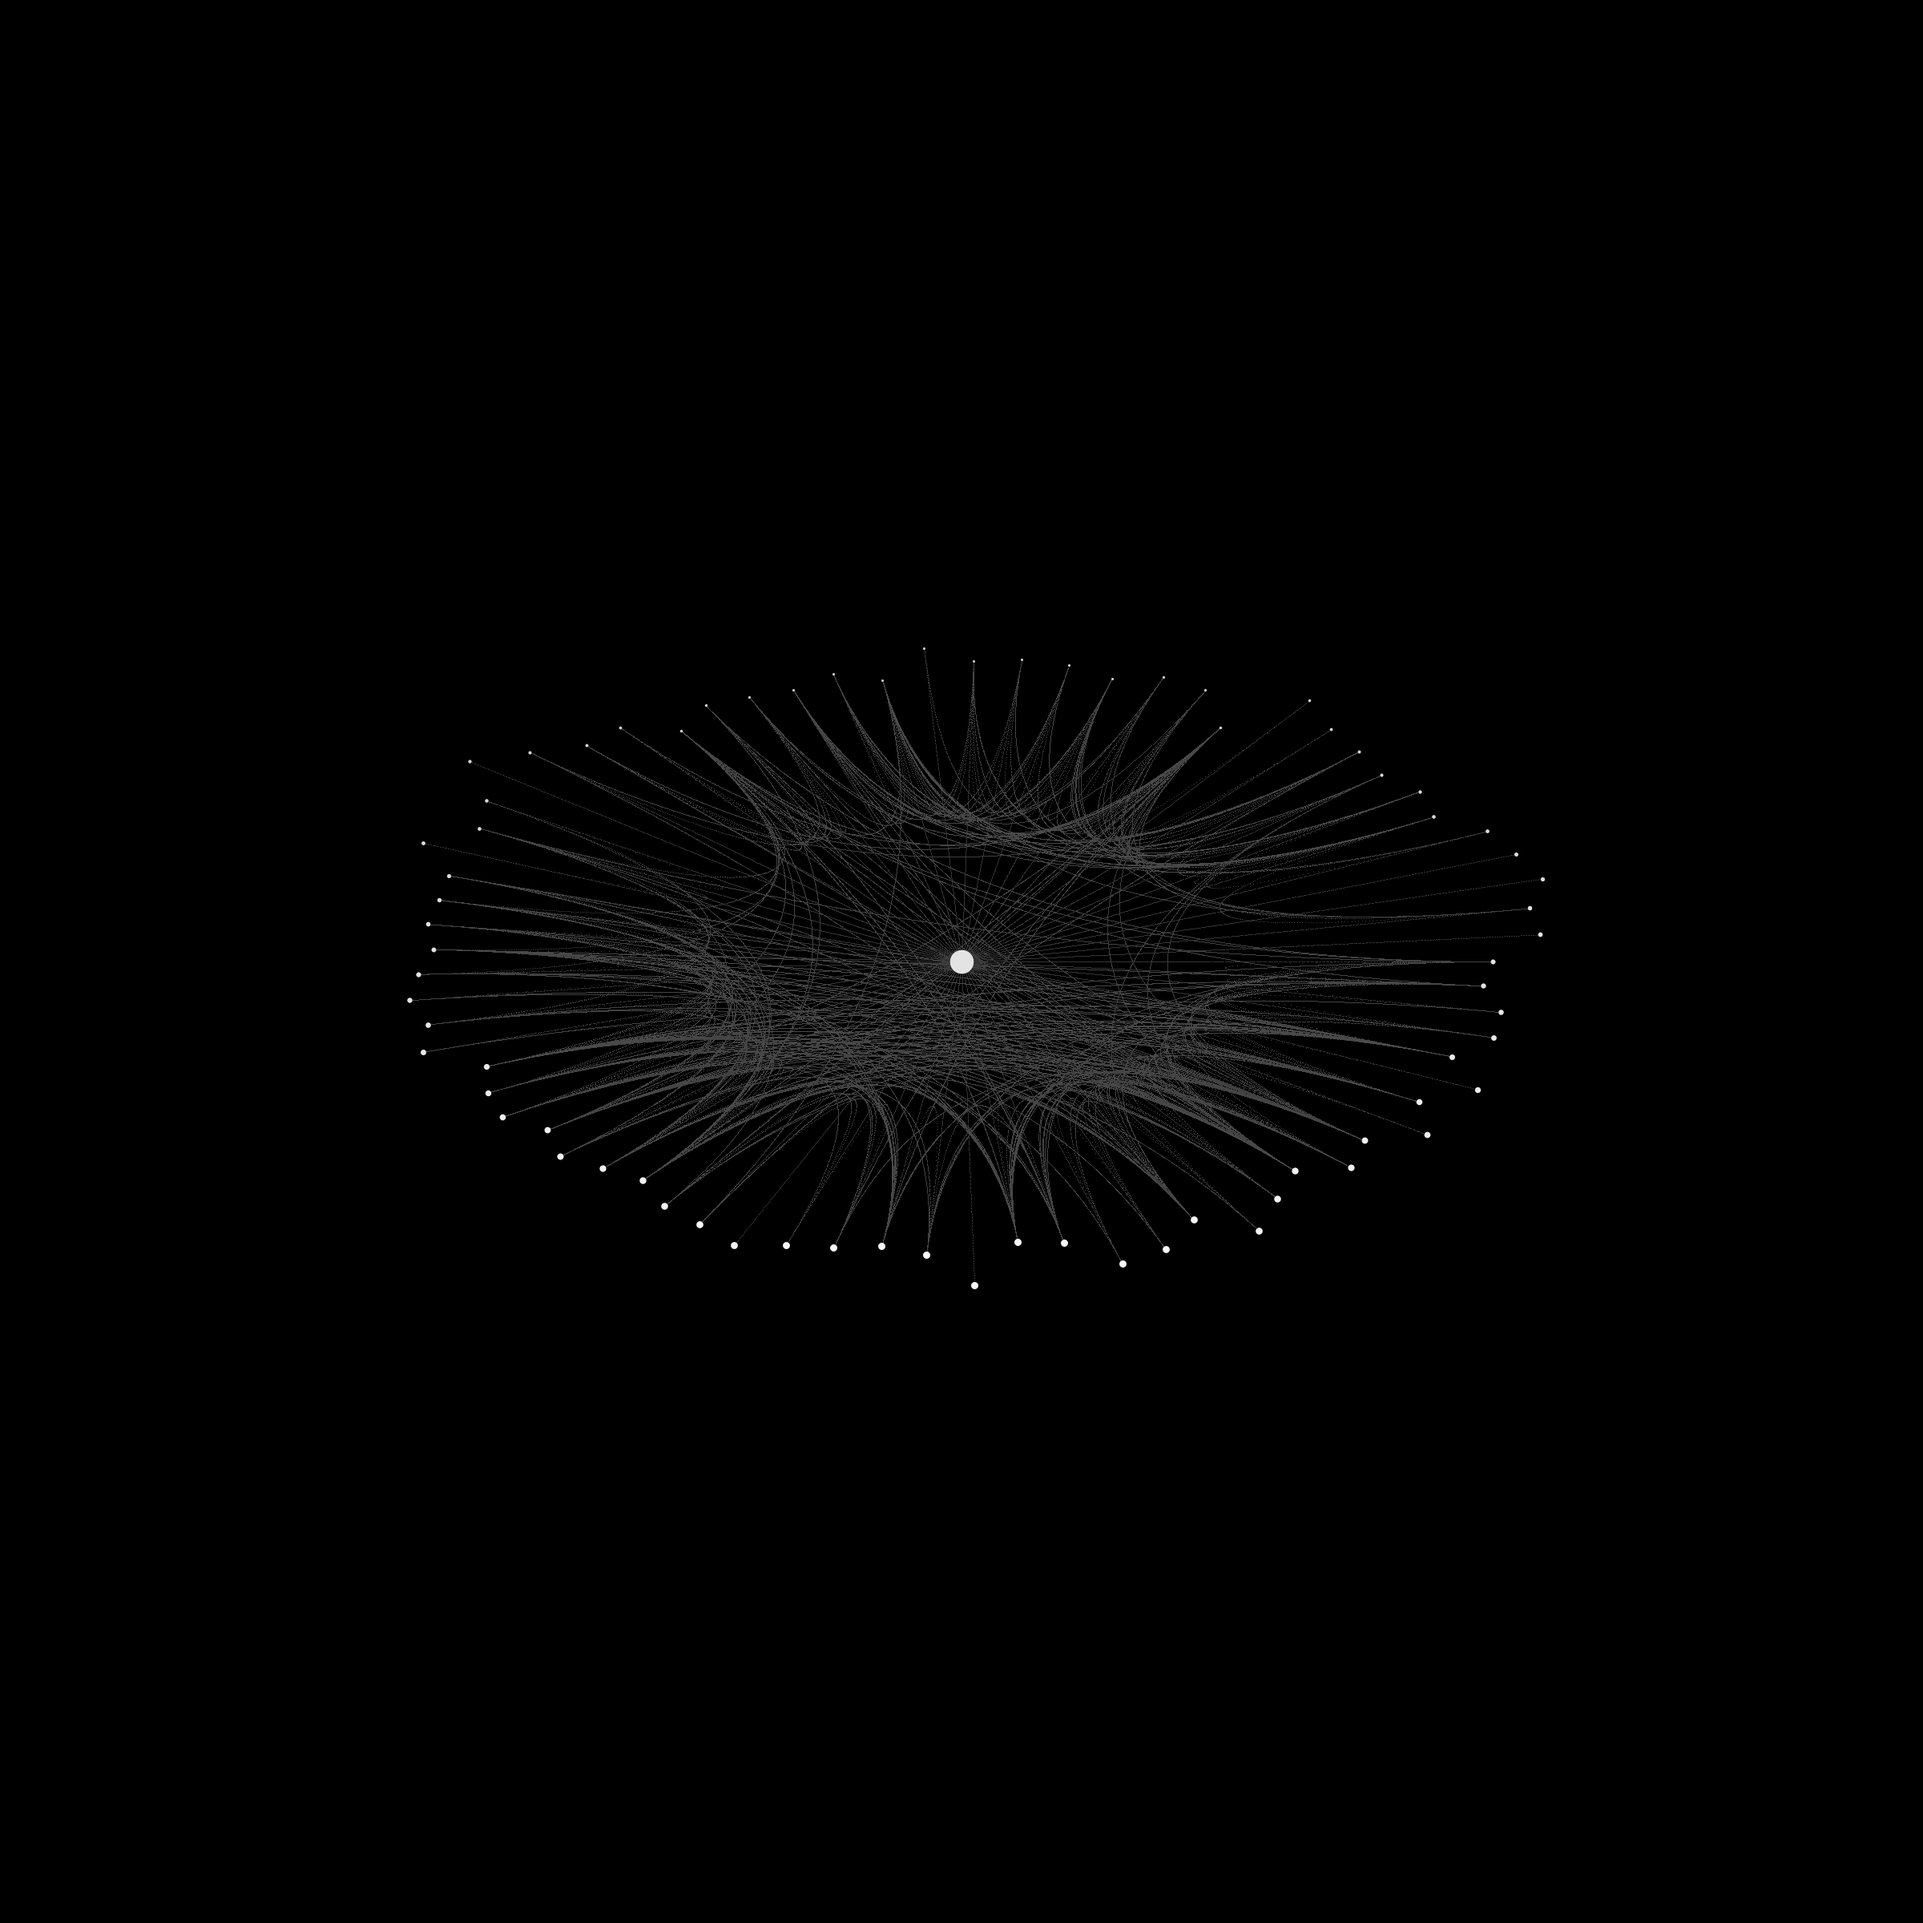
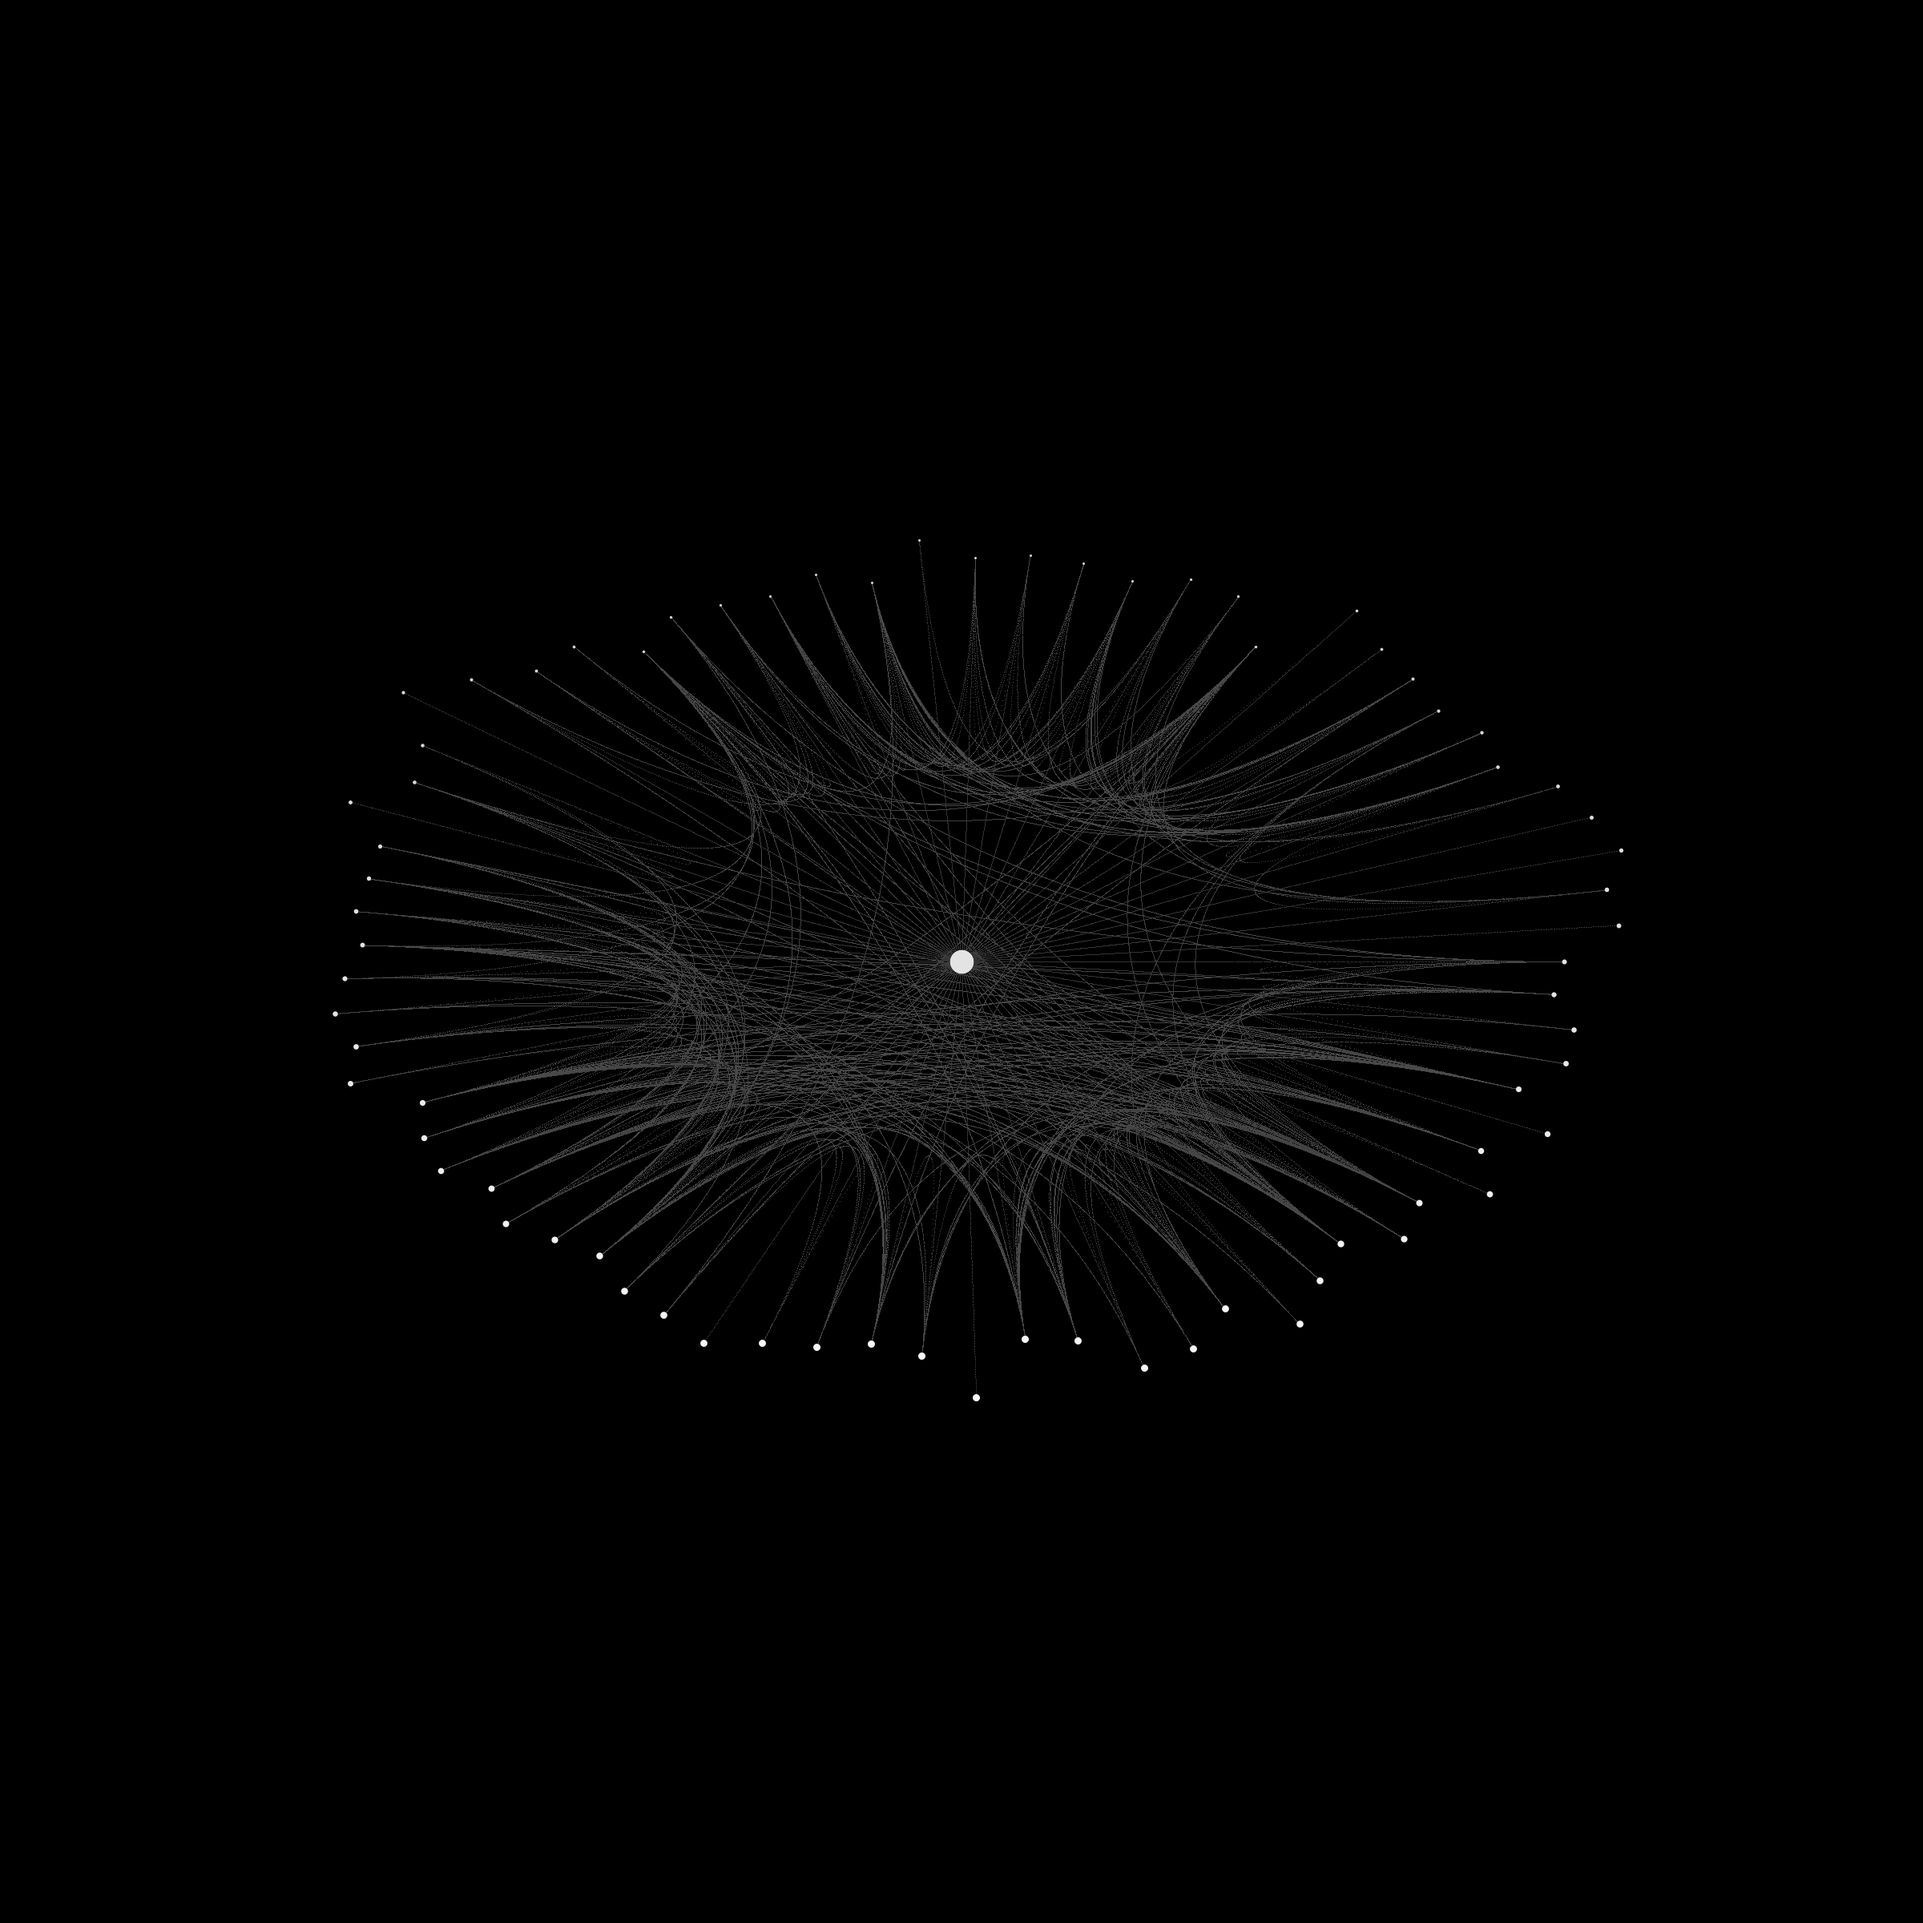
Open the Bible corpus models

Changed region(s): [[0.2188, 0.3125, 0.7812, 0.6875]]

diff --git a/works.js b/works.js
@@ -138,12 +138,14 @@
       $("#library-entry").classList.remove("is-active");
       $("#corpus-entry").classList.remove("is-active");
       this.edition = await response.json();
+      this.isCorpus = Boolean(this.edition.corpus_ref);
       this.nodes = this.edition.visual.topology.nodes.map((node, index) => {
         const angle = node.angle ?? (index / Math.max(1, this.edition.visual.topology.nodes.length)) * Math.PI * 2;
         const band = node.band ?? (node.type === "work" ? 0 : node.type === "document" ? .32 : .62 + (index % 3) * .09);
         return { ...node, angle, band, screenX: 0, screenY: 0 };
       });
-      this.arrangeWork(entry.kind);
+      if (this.isCorpus) this.layoutMode = "orbital";
+      else this.arrangeWork(entry.kind);
       $$("#work-list [data-work]").forEach((button) => button.classList.toggle("is-active", button.dataset.work === entry.work_id));
       $("#work-title").textContent = entry.title;
       $("#work-coordinate").textContent = `${entry.kind} / ${entry.translation || entry.author} / current edition`;
@@ -152,7 +154,7 @@
         this.edition.reading.statement,
         sourceRelation?.library_statement
       ].filter(Boolean).join(" ");
-      this.resetSoundStatus("score");
+      this.resetSoundStatus(this.isCorpus ? "corpus score" : "score");
       this.targetRotation = 0;
     }
 
@@ -489,7 +491,9 @@
         this.rotation += (this.targetRotation - this.rotation) * .05;
         const centerX = this.width * .5;
         const centerY = this.height * .54;
-        const radius = Math.min(this.width, this.height) * (this.width < 600 ? .34 : .325);
+        const radius = Math.min(this.width, this.height) * (
+          this.width < 600 ? .34 : this.isCorpus ? .39 : .325
+        );
         const palette = this.edition.visual.palette;
         const structured = this.layoutMode !== "orbital" && !this.isCorpus && !this.isLibrary;
         context.save();
@@ -564,7 +568,7 @@
             const angle = node.angle + this.rotation;
             const perspective = .7 + Math.sin(angle) * .3;
             node.screenX = centerX + Math.cos(angle) * radius * node.band;
-            node.screenY = centerY + Math.sin(angle) * radius * node.band * .54;
+            node.screenY = centerY + Math.sin(angle) * radius * node.band * (this.isCorpus ? .64 : .54);
             node.depth = perspective;
           }
         }

diff --git a/index.html b/index.html
@@ -254,6 +254,6 @@
     <noscript><p class="noscript">Root Logos requires JavaScript to render its living field. The constitutional archive remains available through “Constitutional documents.”</p></noscript>
     <script src="living-object.js?v=2.30-scriptural-corpora" defer></script>
     <script src="script.js?v=2.31-permanent-root-signal" defer></script>
-    <script src="works.js?v=2.22-multiple-corpora" defer></script>
+    <script src="works.js?v=2.23-expanded-corpora" defer></script>
   </body>
 </html>
